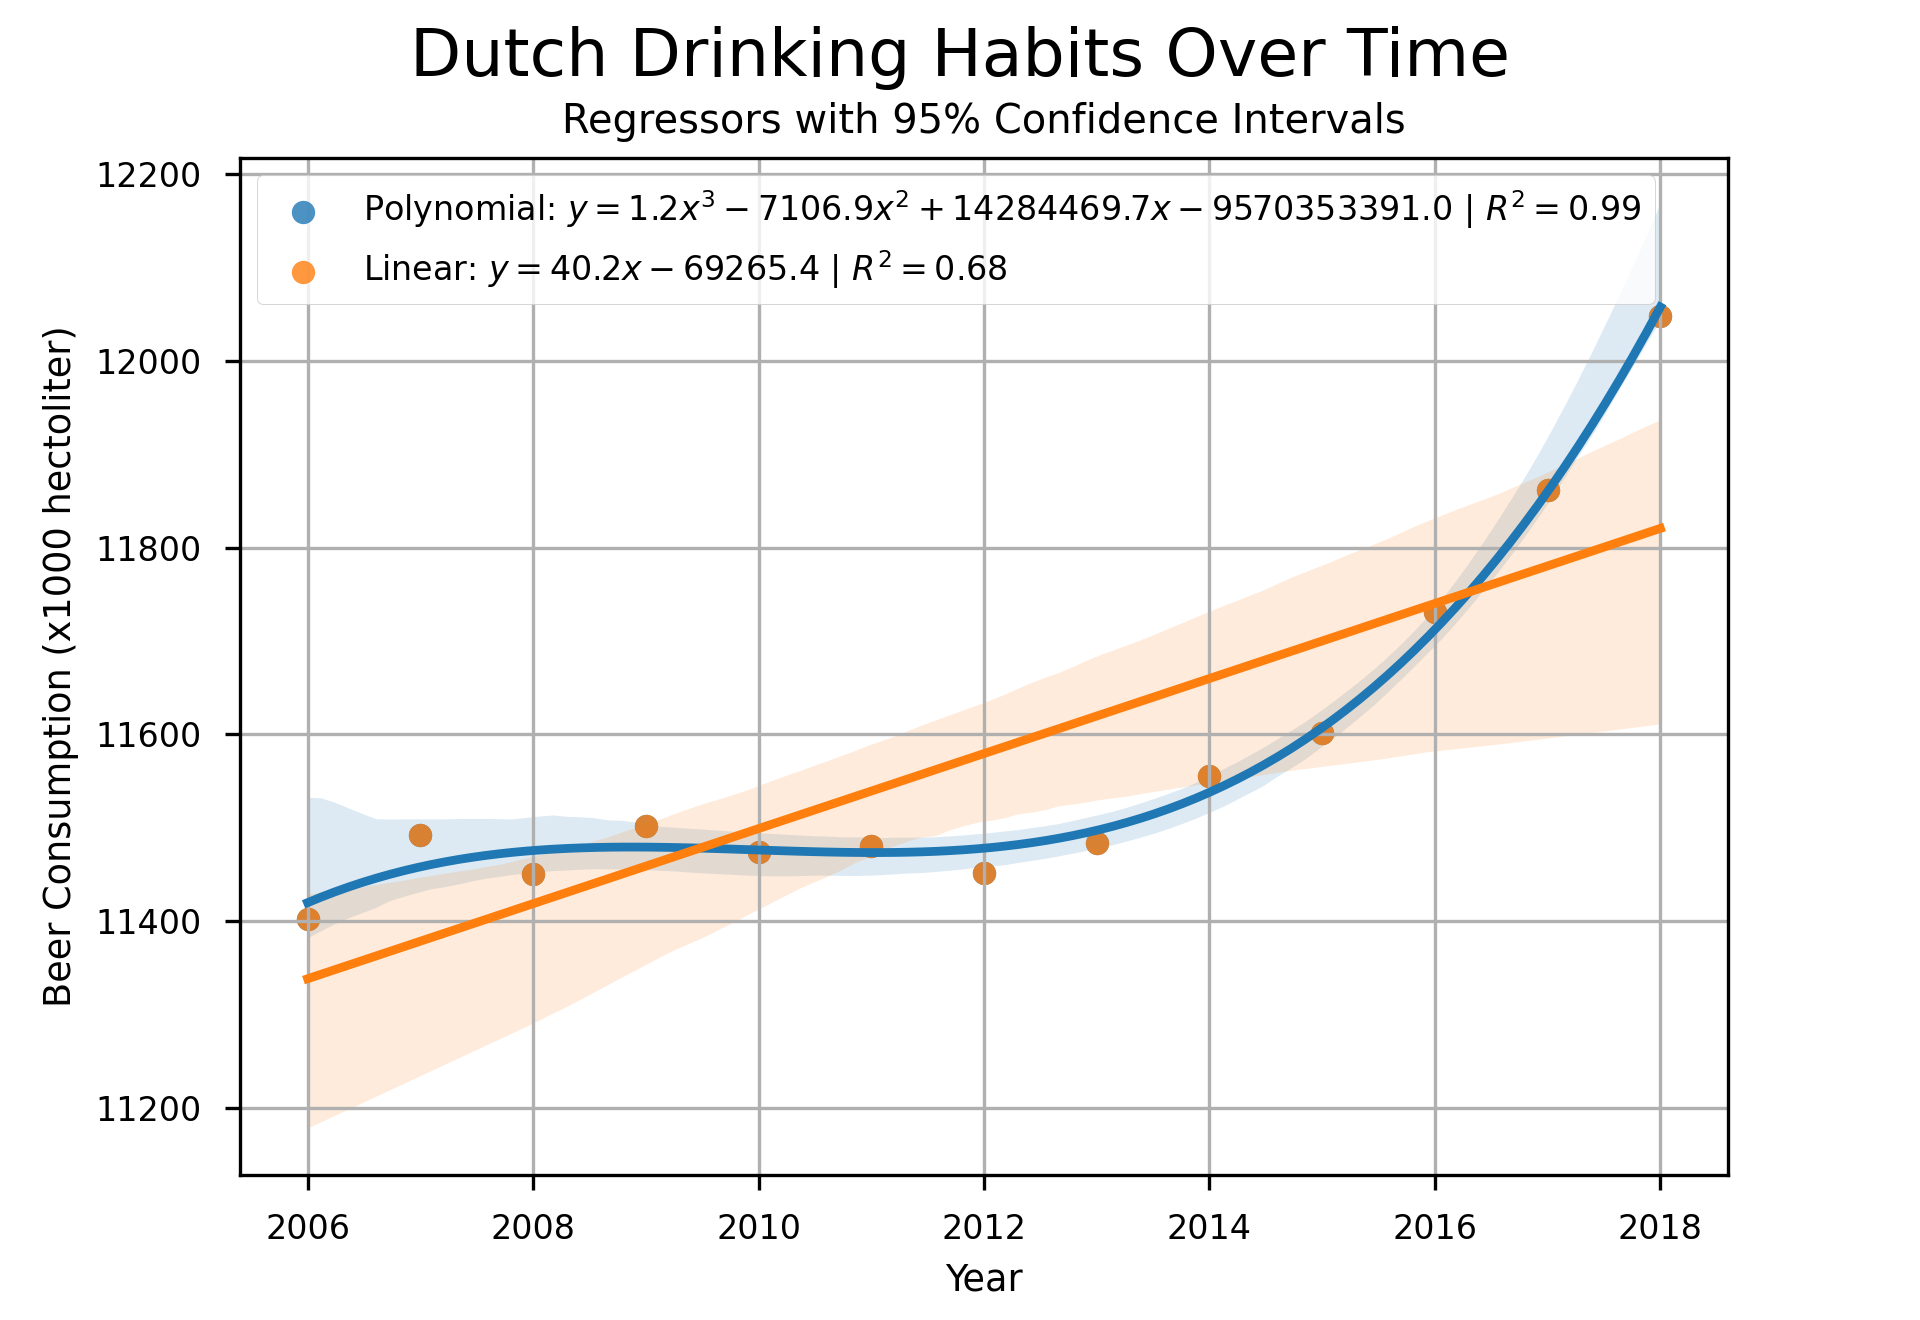
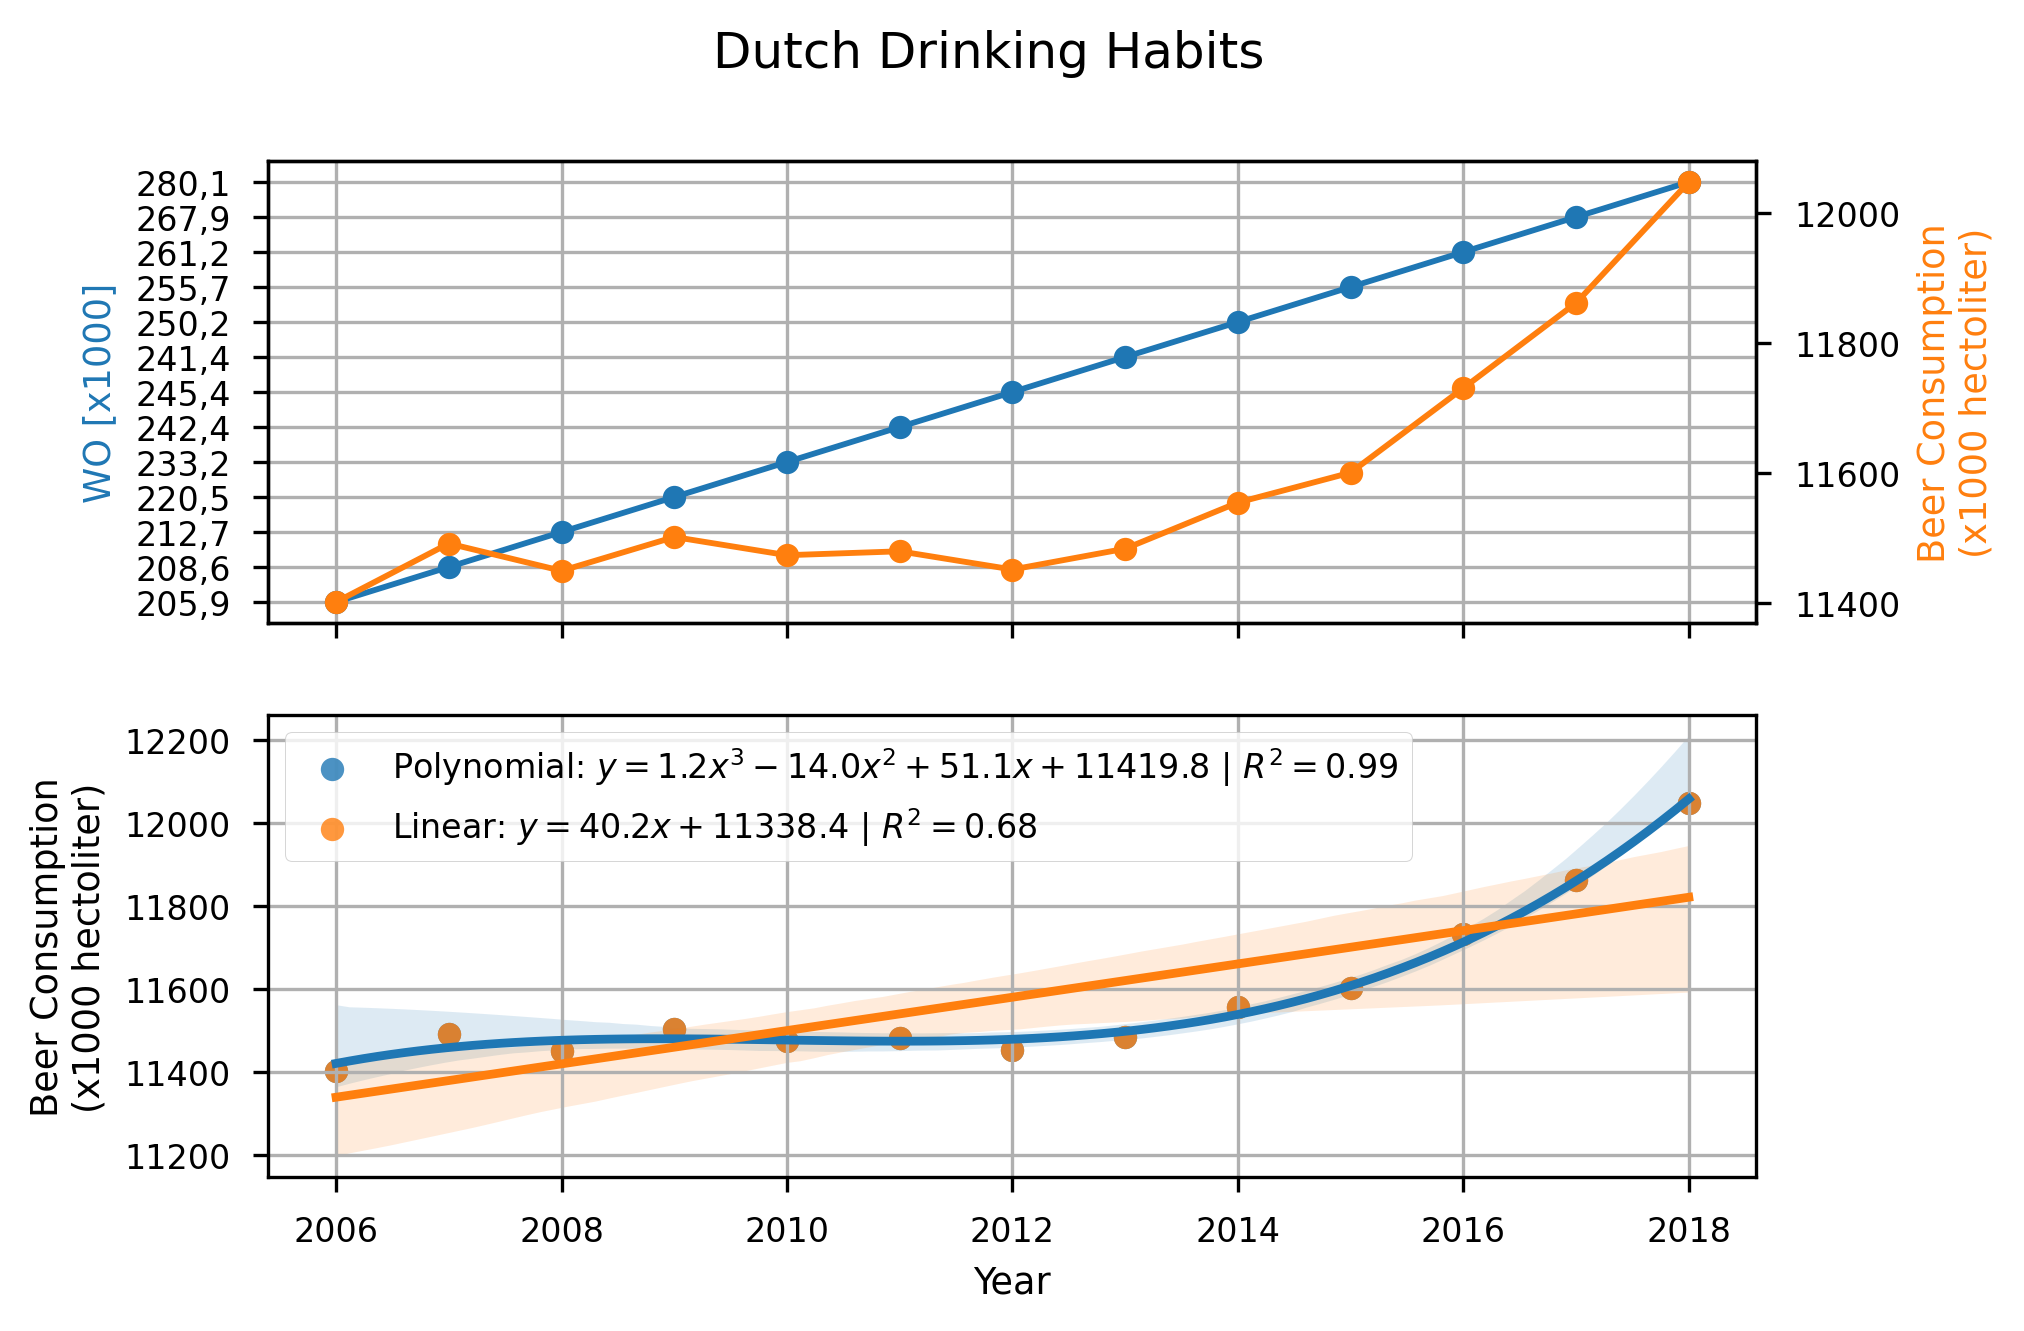
correlation plots updated

Changed region(s): [[0.0, 0.0, 1.0, 0.9939]]

diff --git a/solution_.md b/solution_.md
@@ -1,10 +1,11 @@
 # Solutions
+
 Papers pivotal to our knowledge:
+
 * MCC Van Dyke et al., 2019
 * JT Harvey, Applied Ergonomics, 2002
 * DW Ziegler et al., 2005
 
-
 ![](correlation.PNG)
 
-Thirteen years of Dutch beer consumption in hectoliters is shown along with two different regressors fit to the observed data. A linear *and* third order polynomial were fitted to the data. While there is high correlation ($R^{2}=0.99$) with the third order polynomial, such a correlation is certainly suspect and with such a small window of data, the polynomial regressor is likely overfit to the data. The linear regressor, however, shows substantially weaker correlation of $R^{2}=0.68$, which is to be expected since the Dutch drinking habits appear to be non-linear. 95% confidence intervals are shown for the best fit lines to the data. 
+Thirteen years of Dutch beer consumption and WO is shown. The top plot demonstrates strong, positive correlation between Dutch beer consumption and WO. While I am uncertain what WO is, qualitatively the correlation between the two fields is clear. Moreover, the bottom plot shows two different regressors fit to the Dutch beer consumption data. A linear *and* third order polynomial were fitted to the beer consumption data. While the fitted third order polynomial indicates a very strong fit, Pearson correlation coefficient $R^{2}=0.99$, such a correlation is certainly suspect and with such a small window of data, the polynomial regressor is likely overfit. The linear regressor, however, shows substantially weaker correlation, though still strong, positive correlation of $R^{2}=0.68$. The lower correlation of the beer consumption data is to be expected since the Dutch drinking habits appear to be non-linear. 95% confidence intervals are shown for the best fit lines to the data. In all cases, Dutch drinking habits appear to be increasing over time.
